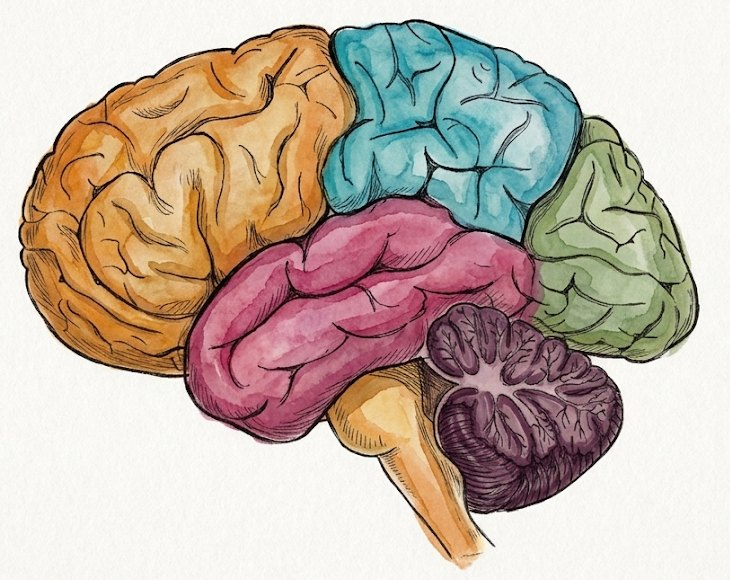
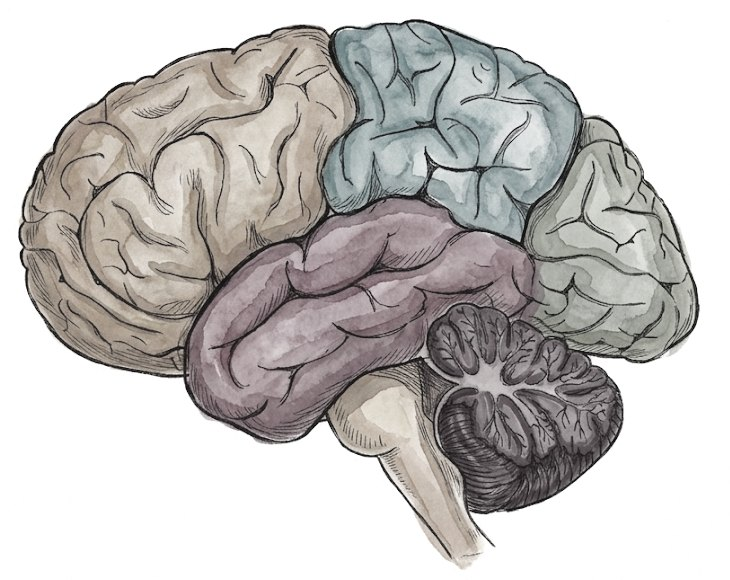
Dementia brain map: fade the illustrations so highlights stand out
Both brain illustrations are saved faded to near-grey (18% colour,
slightly lighter, softer contrast) with the line work kept, and the
highlight tint/outline is a little stronger (62% fill, thicker edge),
so involved regions are obvious at a glance.

Claude-Session: https://claude.ai/code/session_0132dt4NNt3NSrzhXP8wnBNC

diff --git a/hospitalist-toolkit/tools/dementia/brainmap.js b/hospitalist-toolkit/tools/dementia/brainmap.js
@@ -63,10 +63,10 @@ function brainSVG(fills, opts = {}) {
     const base = /cerebellum|pons|midbrain|thalamus|caudate|hippocampus|mamillary|ventricles|whitematter/.test(id) ? "#d3d9e2" : "#e7ebf1";
     return shape.replace(/\/>$/, ` data-r="${id}" fill="${st.fill || base}" fill-opacity="${st.fill ? 0.85 : 1}" stroke="${st.stroke || "#ffffff"}" stroke-width="${st.stroke ? 3 : 1.5}"><title>${esc(BRAIN_REGIONS[id].name)} — ${esc(BRAIN_REGIONS[id].fn)}</title></${tag}>`);
   };
-  // both views are the watercolor illustrations (brain-lateral.jpg and brain-midline.jpg); midline view: the watercolor illustration (brain-midline.jpg, cropped 730×580 from the 1024×834 original) with regions traced over it in image pixels
+  // both views are the watercolor illustrations (brain-lateral.jpg and brain-midline.jpg), faded to near-grey so highlighted regions stand out; midline view: the watercolor illustration (brain-midline.jpg, cropped 730×580 from the 1024×834 original) with regions traced over it in image pixels
   const M = (id, shape) => {
     const st = f(id), tag = shape.match(/^<(\w+)/)[1];
-    return shape.replace(/\/>$/, ` data-r="${id}" fill="${st.fill || "#ffffff"}" fill-opacity="${st.fill ? 0.55 : 0}" stroke="${st.fill ? (st.stroke || st.fill) : "none"}" stroke-width="${st.stroke ? 7 : 4}"><title>${esc(BRAIN_REGIONS[id].name)} — ${esc(BRAIN_REGIONS[id].fn)}</title></${tag}>`);
+    return shape.replace(/\/>$/, ` data-r="${id}" fill="${st.fill || "#ffffff"}" fill-opacity="${st.fill ? 0.62 : 0}" stroke="${st.fill ? (st.stroke || st.fill) : "none"}" stroke-width="${st.stroke ? 8 : 5}"><title>${esc(BRAIN_REGIONS[id].name)} — ${esc(BRAIN_REGIONS[id].fn)}</title></${tag}>`);
   };
   let s = `<svg viewBox="0 0 800 300" xmlns="http://www.w3.org/2000/svg" style="width:100%;max-width:820px;font-family:system-ui,sans-serif">
   

diff --git a/hospitalist-toolkit/shell.js b/hospitalist-toolkit/shell.js
@@ -4,7 +4,7 @@
    A tab is only loaded the first time you open it, and stays loaded when you switch away. */
 
 // To add a tool: put its files in tools/<folder>/ and add a line here.
-const TOOL_V = "20261121p"; // bump this whenever a tool changes, so browsers do not show a stale cached tab
+const TOOL_V = "20261121q"; // bump this whenever a tool changes, so browsers do not show a stale cached tab
 const TOOLS = [
   { key: "today", label: "Today (what changed)", tags: "what changed daily trends vitals overnight summary", path: "tools/today/index.html" },
   { key: "plist", label: "Patient list (screenshot)", tags: "patient list screenshot excel spreadsheet rounding list census floor ward ocr", path: "tools/plist/index.html" },

diff --git a/hospitalist-toolkit/tools/dementia/index.html b/hospitalist-toolkit/tools/dementia/index.html
@@ -107,7 +107,7 @@
   <p class="disclaimer">Decision support only. Chart flags come from keyword matching and must be confirmed at the bedside. Dementia is a clinical diagnosis; do not diagnose during delirium or acute illness.</p>
 </main>
 <script src="demo-patients.js"></script>
-<script src="brainmap.js?v=20261121d"></script>
+<script src="brainmap.js?v=20261121e"></script>
 <script src="safety.js"></script>
 <script src="interact.js?v=20261117g"></script>
 <script src="app.js"></script>

diff --git a/hospitalist-toolkit/pocket-files.js b/hospitalist-toolkit/pocket-files.js
@@ -1,5 +1,5 @@
 // Generated by pocket-build.js - do not edit. Files saved for offline use by the iPhone pocket app.
-self.POCKET_VERSION = "d1c8c6e36e";
+self.POCKET_VERSION = "62088a9e11";
 self.POCKET_FILES = ["index.html?pocket=1",
 "consult-widget.js",
 "index.html",
